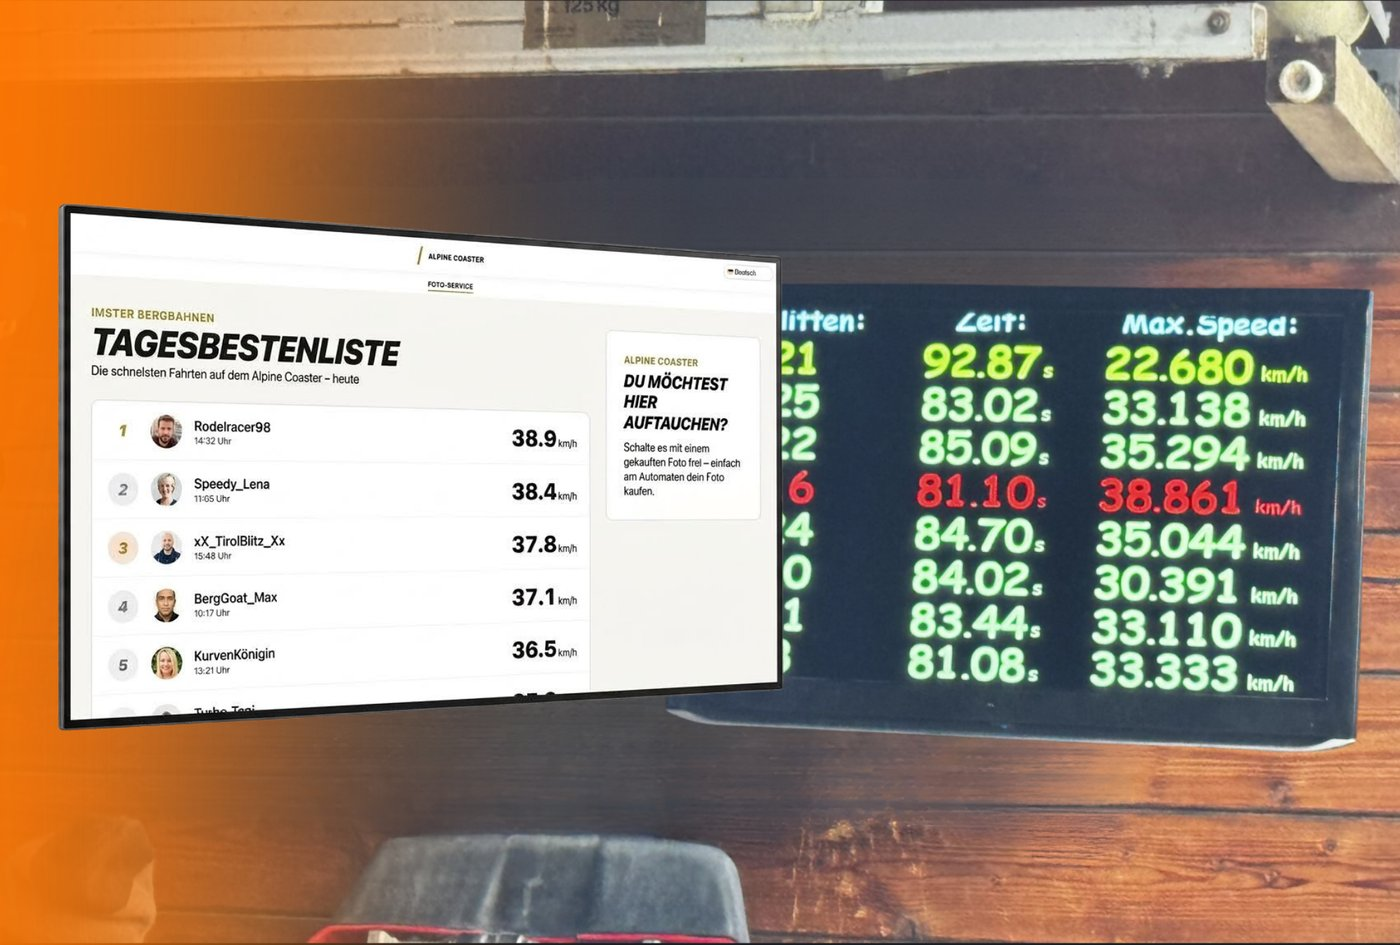
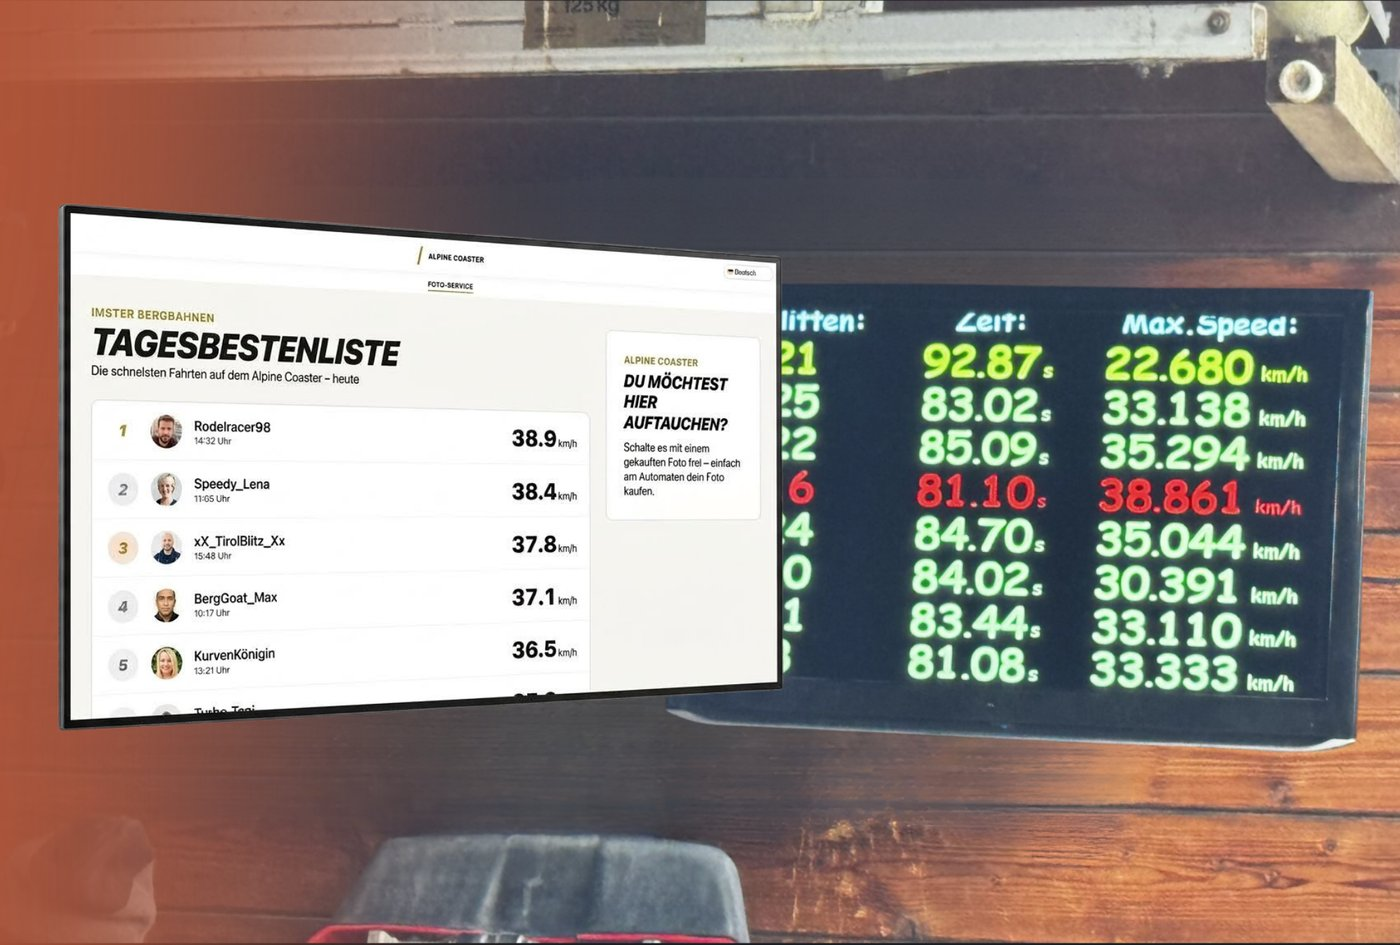
Speedmessung: Paketbild Display auf pirates (29)

Changed region(s): [[0.0, 0.0, 0.2764, 1.0]]

diff --git a/src/pages/ConfigurationProduct.tsx b/src/pages/ConfigurationProduct.tsx
@@ -266,7 +266,7 @@ export default function ConfigurationProduct() {
   // bzw. Fahrtfoto mit Geschwindigkeit).
   const bilder = [
     ...eintragBilder(item),
-    ...(istSpeed ? [speedPaket === 'display' ? '/speedmessung/display.jpg?v=2' : '/speedmessung/langzeit.jpg?v=4'] : []),
+    ...(istSpeed ? [speedPaket === 'display' ? '/speedmessung/display.jpg?v=3' : '/speedmessung/langzeit.jpg?v=4'] : []),
   ];
   const aktuell = bilder[index] ?? bilder[0];
   const punkte = beschreibungPunkte(equipmentDescription(item.beschreibung, language));

diff --git a/src/components/SpeedmessungOffer.tsx b/src/components/SpeedmessungOffer.tsx
@@ -52,7 +52,7 @@ const PLANS: {
     fromYear2: 149,
     highlight: true,
     badge: 'speed.offer.popular',
-    image: '/speedmessung/display.jpg?v=2',
+    image: '/speedmessung/display.jpg?v=3',
     extras: [
       'speed.offer.display_large', 'speed.offer.display_free',
       'speed.offer.display_year2', 'speed.offer.term_12',
